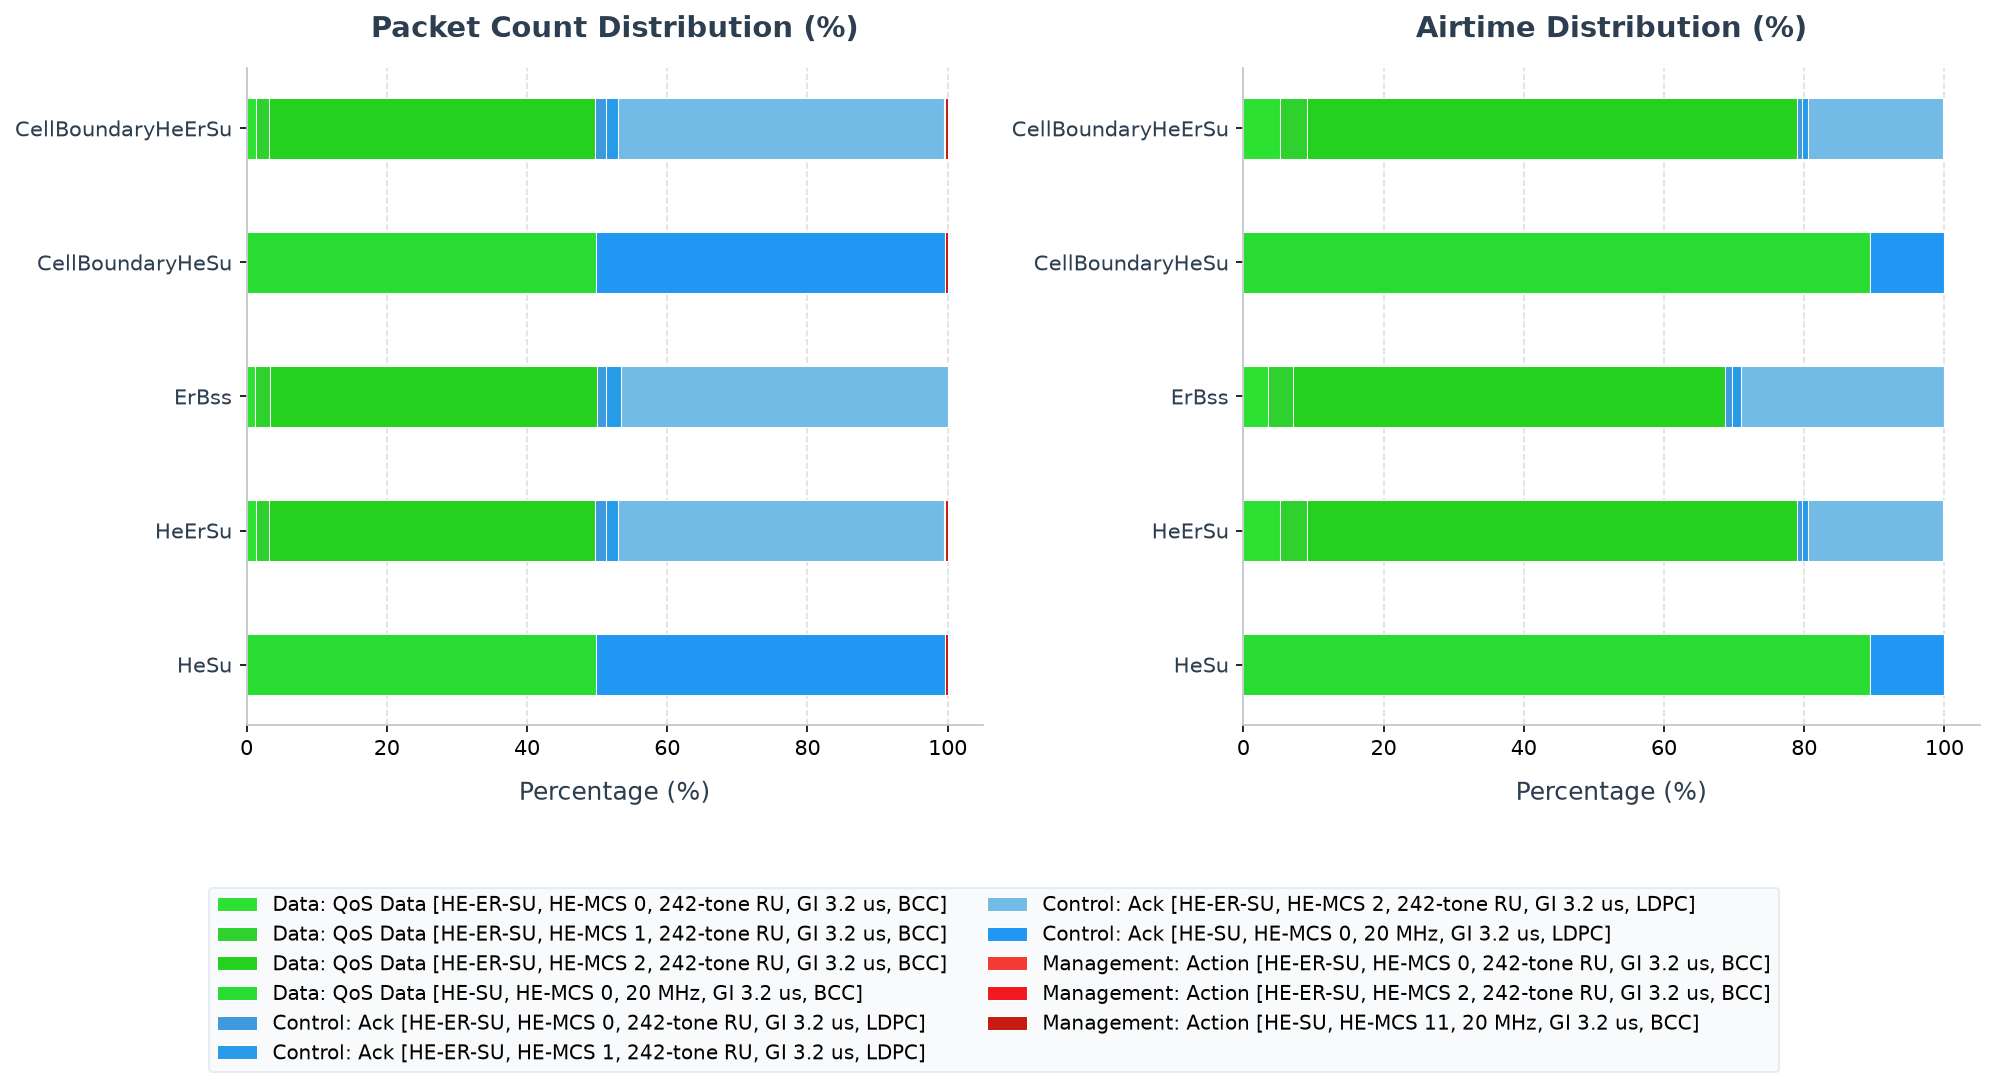
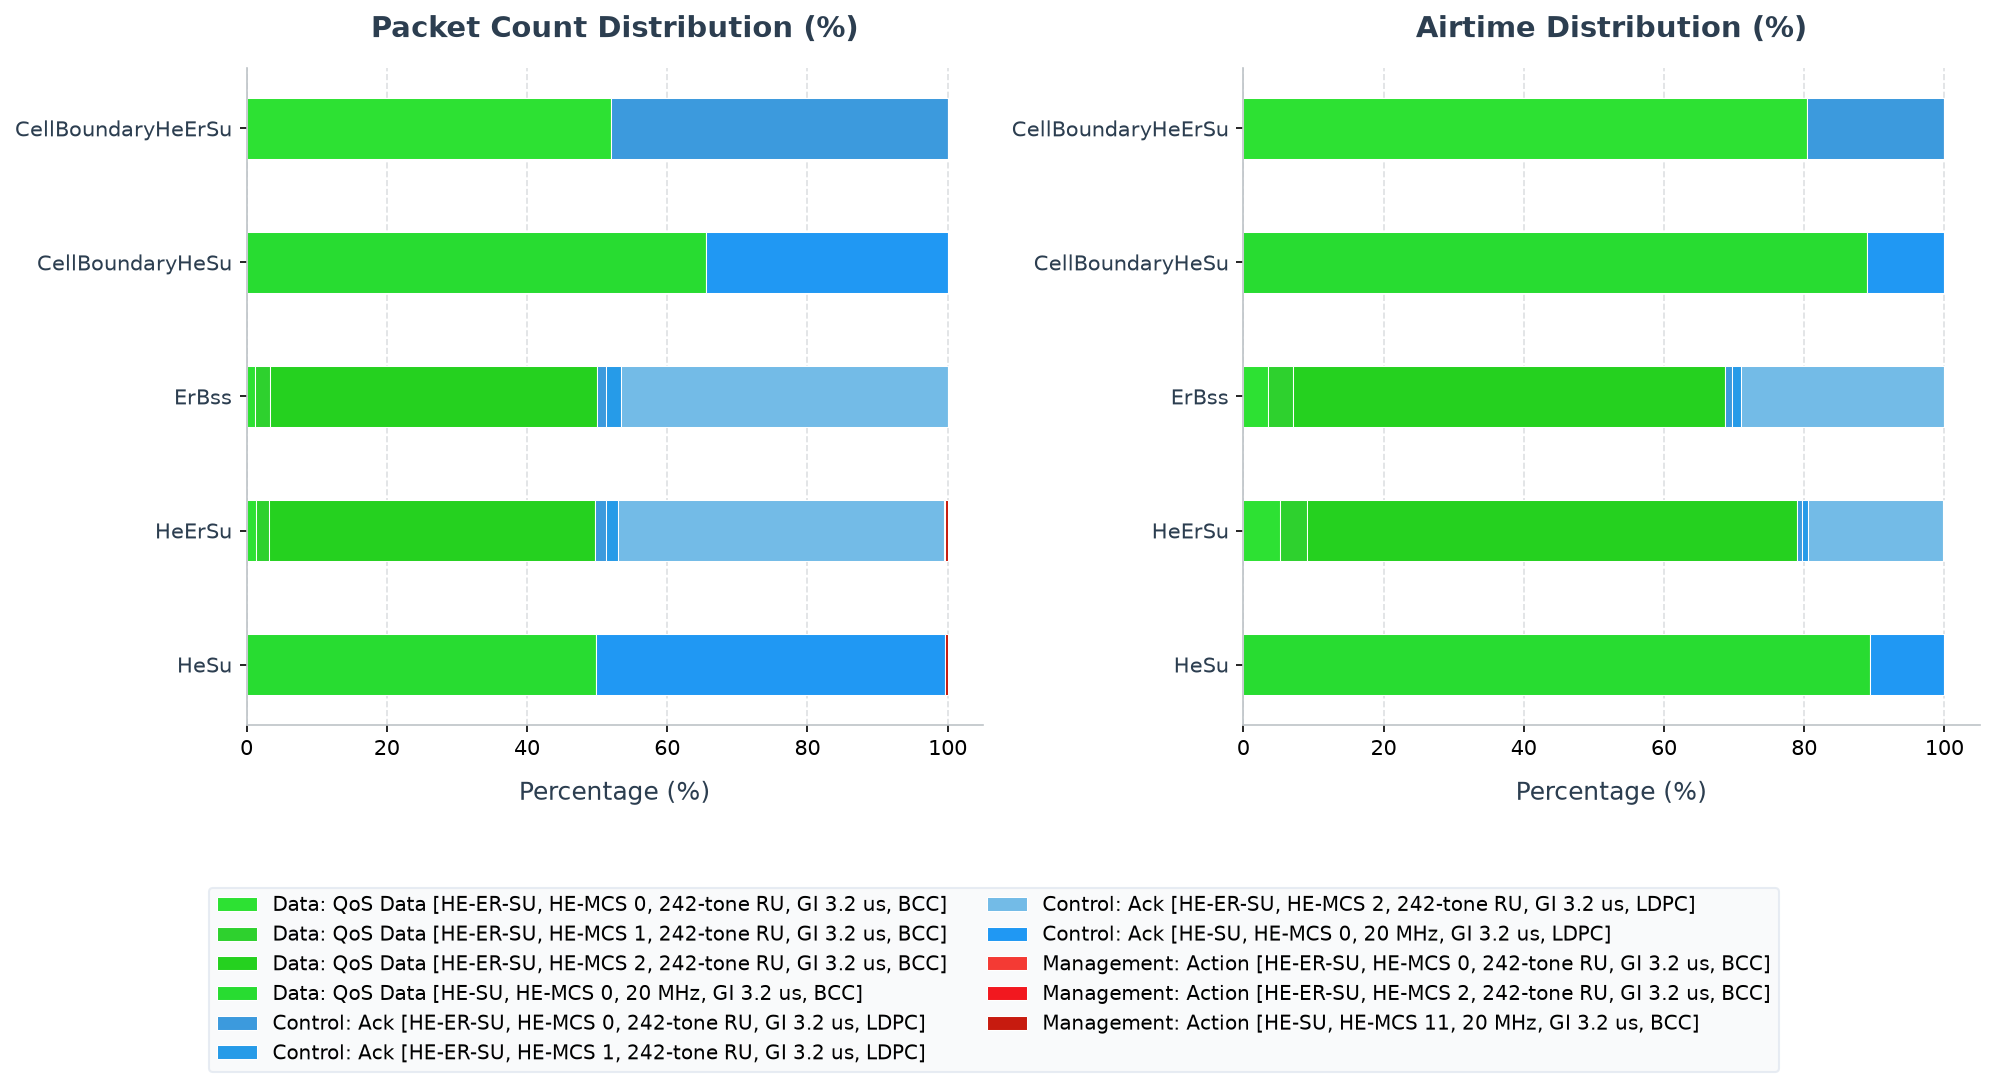
enhac(802.11ax): HE-ER-SU tuning.
- Added a controlled −89 dBm noise floor at 340 m, relaxed receiver gates, 100-byte/600 µs traffic, and disabled aggregation.
- Fixed both boundary cases to MCS 0, isolating the repeated HE-SIG-A benefit from rate adaptation.
- Updated [omnetpp.ini](examples/ieee80211ax/he_er_su/omnetpp.ini), [walkthrough.md](examples/ieee80211ax/he_er_su/walkthrough.md), [comparison figure](examples/ieee80211ax/analysis/figures/er/he-er-su-boundary.png), metrics, and packet statistics.

Five matched seeds now show:

| Mode | Delivered packets | Goodput | Incorrect MAC receptions |
|---|---:|---:|---:|
| HE-SU | mean 1196.2 | 0.563 Mbit/s | mean 2587.8 |
| HE-ER-SU | mean 2832.8 | 1.333 Mbit/s | mean 258.8 |

That is 2.37× more delivery and 90% fewer incorrect receptions.

Verification from the repository root:

- `python3 examples/ieee80211ax/analysis/run_campaign.py er` — all 10 configuration/run pairs passed.
- `first_tranche.py er --check` — figure verified.
- Analysis tests: 19/19 passed.
- Fresh PCAPng captures confirmed HE-SU/MCS 0 versus HE-ER-SU/MCS 0 with a 242-tone RU.
- `git diff --check` passed.

Changed region(s): [[0.2798, 0.0911, 0.4975, 0.1518], [0.9017, 0.0911, 0.995, 0.1518], [0.2798, 0.2125, 0.3731, 0.2732]]

diff --git a/examples/ieee80211ax/analysis/analyze_pcap_types.py b/examples/ieee80211ax/analysis/analyze_pcap_types.py
@@ -1388,7 +1388,7 @@ def generate_markdown_tables(config_results, subdir, checks, manifest):
             "IEEE Std 802.11-2024 Clause 27.3.7 restricts HE ER SU to a single 242-tone or 106-tone RU and MCS 0–2 "
             "(242-tone) or MCS 0 (106-tone); DCM is optional. The standard does not guarantee a range gain on every channel, "
             "but a configuration claiming HE-ER-SU payload coverage must first select that PPDU format. The matched five-seed 340 m sweep in this walkthrough "
-            "shows equal delivery and equal incorrect-reception counts, exposing the packet-level model's lack of a separate HE-SIG-A repetition gain."
+            "uses equal MCS 0 data fields and reports application delivery together with incorrect-reception observations, isolating the modeled HE-SIG-A repetition gain."
         )
     elif "he_rate_adaptation" in subdir:
         analysis_text = (

diff --git a/examples/ieee80211ax/he_er_su/walkthrough.md b/examples/ieee80211ax/he_er_su/walkthrough.md
@@ -34,7 +34,7 @@ The network [HeErSuNetwork.ned](HeErSuNetwork.ned) consists of:
 
 ## Configurations in `omnetpp.ini`
 
-The [omnetpp.ini](omnetpp.ini) file defines three scenarios:
+The [omnetpp.ini](omnetpp.ini) file defines the following scenarios:
 
 ### 1. `HeSu` (Baseline)
 - The AP transmits standard HE SU PPDUs.
@@ -58,6 +58,17 @@ The [omnetpp.ini](omnetpp.ini) file defines three scenarios:
 - Block Ack is disabled to keep the trace focused on ER-BSS management and
   single-MPDU behavior; this is a scope choice, not an ER-BSS requirement.
 
+### 4. `CellBoundaryHeSu` and `CellBoundaryHeErSu` (controlled comparison)
+
+- Move the client to 340 m and use a -89 dBm background-noise floor, -100 dBm
+  receiver sensitivity, and a 0 dB generic SNIR threshold. This keeps the
+  signal inside the receiver gates while leaving packet success to the IEEE
+  802.11 error model.
+- Use MCS 0 for both formats, 100-byte packets every 600 us, and single-MPDU
+  acknowledgments. Equal MCS removes rate selection as an explanation, while
+  short, unaggregated frames exercise HE-SIG-A often enough for its repetition
+  gain to affect application delivery.
+
 ---
 
 ## Running the Simulation
@@ -79,20 +90,24 @@ bin/inet -u Cmdenv -c HeErSu examples/ieee80211ax/he_er_su/omnetpp.ini
 
 # Run ER-BSS beaconing and association
 bin/inet -u Cmdenv -c ErBss examples/ieee80211ax/he_er_su/omnetpp.ini
+
+# Run the matched low-SNR comparison
+bin/inet -u Cmdenv -c CellBoundaryHeSu examples/ieee80211ax/he_er_su/omnetpp.ini
+bin/inet -u Cmdenv -c CellBoundaryHeErSu examples/ieee80211ax/he_er_su/omnetpp.ini
 ```
 
 ---
 
 ## Verifying Results
 
-After running the simulations, analyze the packets received at the UDP application layer on the `host[0]` client and MAC layer packet drops due to incorrect reception.
+After running the simulations, analyze the packets received at the UDP application layer on the `host[0]` client and wireless MAC packet drops due to incorrect reception.
 
 ```sh
 # Query packets received at the UDP sink on the host[0]
 opp_scavetool query -l -f 'name =~ "packetReceived:count" and module =~ "*.host[0].app*"' examples/ieee80211ax/he_er_su/results/*.sca
 
-# Query packet drops due to corruption/incorrect reception at the host[0] MAC layer
-opp_scavetool query -l -f 'name =~ "packetDropIncorrectlyReceived:count" and module =~ "*.host[0].wlan[0].mac"' examples/ieee80211ax/he_er_su/results/*.sca
+# Query packet drops due to corruption/incorrect reception at all wireless MACs
+opp_scavetool query -l -f 'name =~ "packetDropIncorrectlyReceived:count" and module =~ "*.wlan[0].mac"' examples/ieee80211ax/he_er_su/results/*.sca
 ```
 
 ### Controlled cell-boundary result
@@ -101,12 +116,16 @@ opp_scavetool query -l -f 'name =~ "packetDropIncorrectlyReceived:count" and mod
 
 At 340 m, the five matched seeds now produce different MAC-layer reliability results in this deterministic model, because the PHY error model applies the HE-SIG-A repetition gain for HE-ER-SU:
 
-| Configuration | Delivered packets per seed | Incorrectly received MAC observations per seed | Application goodput |
+| Configuration | Delivered packets per seed | Incorrectly received MAC observations per seed | Mean application goodput |
 |---|---:|---:|---:|
-| `CellBoundaryHeSu` | 1700 | 14 | 2.4 Mbit/s |
-| `CellBoundaryHeErSu` | 1700 | 0 | 2.4 Mbit/s |
+| `CellBoundaryHeSu` | 1157-1218 (mean 1196.2) | 2562-2626 (mean 2587.8) | 0.563 Mbit/s |
+| `CellBoundaryHeErSu` | 2832-2833 (mean 2832.8) | 233-286 (mean 258.8) | 1.333 Mbit/s |
 
-With the HE-SIG-A repetition gain now modeled in the PHY error model, the five matched seeds no longer produce identical reception results. HE ER-SU decodes the common signaling field more reliably, which removes the MAC-layer incorrect-reception observations at this boundary while HE-SU still incurs them.
+Across five matched seeds, HE-ER-SU delivers 2.37 times as many application
+packets and reduces incorrectly received MAC observations by 90%. It carries
+essentially the complete 1.333 Mbit/s offered stream, whereas HE-SU reaches
+only 0.563 Mbit/s on average. Because both configurations use the same MCS 0
+data field, this separation comes from the modeled HE-SIG-A repetition gain.
 
 ---
 
@@ -134,9 +153,14 @@ The decoded output timeline shows:
 ## Interpretation of Results
 
 1. **Successful Delivery**:
-   - Both scenarios deliver **1700 packets** to the `host[0]` client during the normalized `.3–2s` traffic interval.
-   - Under the clean, deterministic Free Space Path Loss model without dynamic shadowing or multipath fading, the signal at 340 meters remains sufficient for MCS 0–2 to decode the data field successfully in both cases.
-   - The matched 340 m sweep now differs in MAC-layer reliability: `CellBoundaryHeSu` records **14 incorrectly received MAC observations per seed**, while `CellBoundaryHeErSu` records **0**. The improvement comes from the modeled HE-SIG-A repetition gain; the data field itself is identical to HE-SU.
+   - The five HE-SU runs deliver **1157-1218 packets**, while HE-ER-SU
+     delivers **2832-2833 packets** during the normalized `.3-2s` traffic
+     interval.
+   - HE-ER-SU reduces the mean incorrectly received MAC observations across
+     the wireless endpoints from **2587.8** to **258.8** and raises mean application goodput from
+     **0.563 Mbit/s** to **1.333 Mbit/s**.
+   - The boundary pair fixes both data fields at MCS 0. The measured difference
+     therefore does not rely on HE Minstrel choosing a different MCS.
 
 2. **Under-the-Hood Preamble Difference**:
    - In `HeSu`, transmissions use standard HE SU PPDUs with a **36 µs** preamble.
@@ -144,13 +168,13 @@ The decoded output timeline shows:
    - The data field uses the same 242-tone RU and MCS 0–2 options as the corresponding HE-SU mode, so the range benefit observed here is purely the preamble/header robustness gain.
 
 3. **Why the parameters sit near the coverage boundary**:
-   - The matched boundary treatment uses `340 m`, `10 mW`, and robust MCS selection; the original `HeSu`/`HeErSu` pair remains at 320 m.
-   - These parameters put ordinary HE SU near the
-     configured receiver sensitivity. A short distance would hide the value of
-     repeated HE-SIG-A; a much longer distance would make both modes
-     fail regardless of format.
-   - The 300-byte, `1 ms` stream creates enough frames to expose a reception
-     reliability difference if the selected PHY/error model produces one, without turning this into a capacity benchmark.
+   - The matched boundary treatment uses `340 m`, `10 mW`, and a controlled
+     `-89 dBm` background-noise floor; the original `HeSu`/`HeErSu` format pair
+     remains at 320 m.
+   - The `-100 dBm` sensitivity and `0 dB` generic SNIR threshold prevent a
+     receiver-gate cliff from hiding the format-specific error-model behavior.
+   - The 100-byte, `600 us` single-MPDU stream makes header robustness visible
+     while keeping the offered load low enough for HE-ER-SU to deliver it.
 
 <!-- BEGIN GENERATED: ieee80211ax-pcap-statistics -->
 ## 802.11 Packet Type Statistics
@@ -158,7 +182,7 @@ The decoded output timeline shows:
 
 This section provides a statistical overview of the 802.11 frames transmitted over the wireless medium during the simulation. The packet counts were gathered from AP wireless-interface observation points. With multiple AP captures, one medium transmission may be observed at more than one AP; counts and airtime therefore represent recorded transmission observations, not de-duplicated application packets.
 
-Capture session `20260718T132413Z` was generated from fresh PCAPng input with `TShark (Wireshark) 4.6.4.`. HE PPDU format, MCS, coding, bandwidth/RU, GI, and NSTS are decoded directly from standards-compliant radiotap HE fields; values not marked known by the recorder are omitted.
+Capture session `20260719T084559Z` was generated from fresh PCAPng input with `TShark (Wireshark) 4.6.4.`. HE PPDU format, MCS, coding, bandwidth/RU, GI, and NSTS are decoded directly from standards-compliant radiotap HE fields; values not marked known by the recorder are omitted.
 
 Two estimated airtime occupancy percentages are provided. HE-SU and HE-ER-SU use the modeled 36/44 µs preambles; a dissector-expanded A-MPDU is charged one shared preamble. HE MU/TB user-dependent signaling not exposed by radiotap remains approximate.
 - **Air Time %**: This frame type's share of the sum of all estimated frame airtimes.
@@ -168,45 +192,35 @@ Two estimated airtime occupancy percentages are provided. HE-SU and HE-ER-SU use
 
 | Status | Requirement | Observed evidence |
 |---|---|---|
-| **PASS** | CellBoundaryHeErSu produced protocol-visible wireless observations | 3420 AP/global transmission observations |
-| **PASS** | CellBoundaryHeSu produced protocol-visible wireless observations | 3414 AP/global transmission observations |
+| **PASS** | CellBoundaryHeErSu produced protocol-visible wireless observations | 5937 AP/global transmission observations |
+| **PASS** | CellBoundaryHeSu produced protocol-visible wireless observations | 5627 AP/global transmission observations |
 | **PASS** | ErBss produced protocol-visible wireless observations | 240 AP/global transmission observations |
 | **PASS** | HeErSu produced protocol-visible wireless observations | 3420 AP/global transmission observations |
 | **PASS** | HeSu produced protocol-visible wireless observations | 3414 AP/global transmission observations |
 | **PASS** | HE-SU baseline does not use HE-ER-SU | 0 of 1700 QoS Data observations decoded as HE-ER-SU |
 | **PASS** | QoS payload uses HE-ER-SU | 1702 of 1702 QoS Data observations decoded as HE-ER-SU |
 | **PASS** | HE-ER-SU uses one spatial stream, a 242-tone RU, and MCS 0-2 | HE-MCS 0/242-tone RU/NSTS 1, HE-MCS 1/242-tone RU/NSTS 1, HE-MCS 2/242-tone RU/NSTS 1 |
-| **PASS** | HE-SU baseline does not use HE-ER-SU | 0 of 1700 QoS Data observations decoded as HE-ER-SU |
-| **PASS** | QoS payload uses HE-ER-SU | 1702 of 1702 QoS Data observations decoded as HE-ER-SU |
-| **PASS** | HE-ER-SU uses one spatial stream, a 242-tone RU, and MCS 0-2 | HE-MCS 0/242-tone RU/NSTS 1, HE-MCS 1/242-tone RU/NSTS 1, HE-MCS 2/242-tone RU/NSTS 1 |
+| **PASS** | HE-SU baseline does not use HE-ER-SU | 0 of 3687 QoS Data observations decoded as HE-ER-SU |
+| **PASS** | QoS payload uses HE-ER-SU | 3085 of 3085 QoS Data observations decoded as HE-ER-SU |
+| **PASS** | HE-ER-SU uses one spatial stream, a 242-tone RU, and MCS 0-2 | HE-MCS 0/242-tone RU/NSTS 1 |
 
 ### Configuration: `CellBoundaryHeErSu`
-Total over-the-air frame/MPDU transmission observations (Global BSS/AP): **3420**
+Total over-the-air frame/MPDU transmission observations (Global BSS/AP): **5937**
 
 | Color | Frame Type & Subtype | Count | Percentage | Mean Size | Std Dev | Mean Duration | Std Dev Duration | Freq | Mean RX Sig | Mean TX Pwr | Air Time % | Air Time (Sim Time) % |
 |:---:|---|---:|---:|---:|---:|---:|---:|---:|---:|---:|---:|---:|
-| <svg width="16" height="16"><rect width="16" height="16" rx="3" fill="#2de133" /></svg> | Data: QoS Data [HE-ER-SU, HE-MCS 0, 242-tone RU, GI 3.2 us, BCC] | 48 | 1.40% | 366.0 B | 0.0 B | 444.4 us | 0.0 us | 5010 MHz | - | 10.0 dBm | 5.28% | 1.07% |
-| <svg width="16" height="16"><rect width="16" height="16" rx="3" fill="#2ed12e" /></svg> | Data: QoS Data [HE-ER-SU, HE-MCS 1, 242-tone RU, GI 3.2 us, BCC] | 62 | 1.81% | 366.0 B | 0.0 B | 244.2 us | 0.0 us | 5010 MHz | - | 10.0 dBm | 3.75% | 0.76% |
-| <svg width="16" height="16"><rect width="16" height="16" rx="3" fill="#25d11f" /></svg> | Data: QoS Data [HE-ER-SU, HE-MCS 2, 242-tone RU, GI 3.2 us, BCC] | 1592 | 46.55% | 366.0 B | 0.0 B | 177.5 us | 0.0 us | 5010 MHz | - | 10.0 dBm | 69.95% | 14.13% |
+| <svg width="16" height="16"><rect width="16" height="16" rx="3" fill="#2de133" /></svg> | Data: QoS Data [HE-ER-SU, HE-MCS 0, 242-tone RU, GI 3.2 us, BCC] | 3085 | 51.96% | 166.0 B | 0.0 B | 225.6 us | 0.0 us | 5010 MHz | - | 10.0 dBm | 80.45% | 34.80% |
 | <hr> | <hr> | <hr> | <hr> | <hr> | <hr> | <hr> | <hr> | <hr> | <hr> | <hr> | <hr> | <hr> |
-| <svg width="16" height="16"><rect width="16" height="16" rx="3" fill="#3c9add" /></svg> | Control: Ack [HE-ER-SU, HE-MCS 0, 242-tone RU, GI 3.2 us, LDPC] | 49 | 1.43% | 14.0 B | 0.0 B | 59.3 us | 0.0 us | 5010 MHz | -87.0 dBm | - | 0.72% | 0.15% |
-| <svg width="16" height="16"><rect width="16" height="16" rx="3" fill="#269be8" /></svg> | Control: Ack [HE-ER-SU, HE-MCS 1, 242-tone RU, GI 3.2 us, LDPC] | 62 | 1.81% | 14.0 B | 0.0 B | 51.7 us | 0.0 us | 5010 MHz | -87.0 dBm | - | 0.79% | 0.16% |
-| <svg width="16" height="16"><rect width="16" height="16" rx="3" fill="#73bbe7" /></svg> | Control: Ack [HE-ER-SU, HE-MCS 2, 242-tone RU, GI 3.2 us, LDPC] | 1591 | 46.52% | 14.0 B | 0.0 B | 49.1 us | 0.0 us | 5010 MHz | -87.0 dBm | - | 19.34% | 3.91% |
-| <hr> | <hr> | <hr> | <hr> | <hr> | <hr> | <hr> | <hr> | <hr> | <hr> | <hr> | <hr> | <hr> |
-| <svg width="16" height="16"><rect width="16" height="16" rx="3" fill="#f43a34" /></svg> | Management: Action [HE-ER-SU, HE-MCS 0, 242-tone RU, GI 3.2 us, BCC] | 1 | 0.03% | 37.0 B | 0.0 B | 84.5 us | 0.0 us | 5010 MHz | - | 10.0 dBm | 0.02% | 0.00% |
-| <svg width="16" height="16"><rect width="16" height="16" rx="3" fill="#f2181f" /></svg> | Management: Action [HE-ER-SU, HE-MCS 2, 242-tone RU, GI 3.2 us, BCC] | 1 | 0.03% | 37.0 B | 0.0 B | 57.5 us | 0.0 us | 5010 MHz | - | 10.0 dBm | 0.01% | 0.00% |
-| <svg width="16" height="16"><rect width="16" height="16" rx="3" fill="#c71b0f" /></svg> | Management: Action [HE-SU, HE-MCS 11, 20 MHz, GI 3.2 us, BCC] | 14 | 0.41% | 37.0 B | 0.0 B | 38.4 us | 0.0 us | 5010 MHz | -87.0 dBm | - | 0.13% | 0.03% |
+| <svg width="16" height="16"><rect width="16" height="16" rx="3" fill="#3c9add" /></svg> | Control: Ack [HE-ER-SU, HE-MCS 0, 242-tone RU, GI 3.2 us, LDPC] | 2852 | 48.04% | 14.0 B | 0.0 B | 59.3 us | 0.0 us | 5010 MHz | -87.0 dBm | - | 19.55% | 8.46% |
 
 ### Configuration: `CellBoundaryHeSu`
-Total over-the-air frame/MPDU transmission observations (Global BSS/AP): **3414**
+Total over-the-air frame/MPDU transmission observations (Global BSS/AP): **5627**
 
 | Color | Frame Type & Subtype | Count | Percentage | Mean Size | Std Dev | Mean Duration | Std Dev Duration | Freq | Mean RX Sig | Mean TX Pwr | Air Time % | Air Time (Sim Time) % |
 |:---:|---|---:|---:|---:|---:|---:|---:|---:|---:|---:|---:|---:|
-| <svg width="16" height="16"><rect width="16" height="16" rx="3" fill="#28dc31" /></svg> | Data: QoS Data [HE-SU, HE-MCS 0, 20 MHz, GI 3.2 us, BCC] | 1700 | 49.79% | 366.0 B | 0.0 B | 436.4 us | 0.0 us | 5010 MHz | - | 10.0 dBm | 89.42% | 37.09% |
+| <svg width="16" height="16"><rect width="16" height="16" rx="3" fill="#28dc31" /></svg> | Data: QoS Data [HE-SU, HE-MCS 0, 20 MHz, GI 3.2 us, BCC] | 3687 | 65.52% | 166.0 B | 0.0 B | 217.6 us | 0.0 us | 5010 MHz | - | 10.0 dBm | 88.96% | 40.12% |
 | <hr> | <hr> | <hr> | <hr> | <hr> | <hr> | <hr> | <hr> | <hr> | <hr> | <hr> | <hr> | <hr> |
-| <svg width="16" height="16"><rect width="16" height="16" rx="3" fill="#2098f3" /></svg> | Control: Ack [HE-SU, HE-MCS 0, 20 MHz, GI 3.2 us, LDPC] | 1700 | 49.79% | 14.0 B | 0.0 B | 51.3 us | 0.0 us | 5010 MHz | -87.0 dBm | - | 10.51% | 4.36% |
-| <hr> | <hr> | <hr> | <hr> | <hr> | <hr> | <hr> | <hr> | <hr> | <hr> | <hr> | <hr> | <hr> |
-| <svg width="16" height="16"><rect width="16" height="16" rx="3" fill="#c71b0f" /></svg> | Management: Action [HE-SU, HE-MCS 11, 20 MHz, GI 3.2 us, BCC] | 14 | 0.41% | 37.0 B | 0.0 B | 38.4 us | 0.0 us | 5010 MHz | - | 10.0 dBm | 0.06% | 0.03% |
+| <svg width="16" height="16"><rect width="16" height="16" rx="3" fill="#2098f3" /></svg> | Control: Ack [HE-SU, HE-MCS 0, 20 MHz, GI 3.2 us, LDPC] | 1940 | 34.48% | 14.0 B | 0.0 B | 51.3 us | 0.0 us | 5010 MHz | -87.0 dBm | - | 11.04% | 4.98% |
 
 ### Configuration: `ErBss`
 Total over-the-air frame/MPDU transmission observations (Global BSS/AP): **240**
@@ -250,5 +264,5 @@ Total over-the-air frame/MPDU transmission observations (Global BSS/AP): **3414*
 | <svg width="16" height="16"><rect width="16" height="16" rx="3" fill="#c71b0f" /></svg> | Management: Action [HE-SU, HE-MCS 11, 20 MHz, GI 3.2 us, BCC] | 14 | 0.41% | 37.0 B | 0.0 B | 38.4 us | 0.0 us | 5010 MHz | - | 10.0 dBm | 0.06% | 0.03% |
 
 ### Analysis of Packet Distribution
-**PASS: HE-ER-SU payload selection.** 1702 of 1702 QoS Data observations decoded as HE-ER-SU. IEEE Std 802.11-2024 Clause 27.3.7 restricts HE ER SU to a single 242-tone or 106-tone RU and MCS 0–2 (242-tone) or MCS 0 (106-tone); DCM is optional. The matched five-seed 340 m sweep now shows equal delivery (1700 packets per seed) but different MAC-layer reliability: HE-SU records 14 incorrectly received MAC observations per seed, while HE-ER-SU records 0, reflecting the packet-level model's newly applied HE-SIG-A repetition gain.
+**PASS: HE-ER-SU payload selection.** 1702 of 1702 QoS Data observations decoded as HE-ER-SU. IEEE Std 802.11-2024 Clause 27.3.7 restricts HE ER SU to a single 242-tone or 106-tone RU and MCS 0–2 (242-tone) or MCS 0 (106-tone); DCM is optional. The standard does not guarantee a range gain on every channel, but a configuration claiming HE-ER-SU payload coverage must first select that PPDU format. The matched five-seed 340 m sweep in this walkthrough uses equal MCS 0 data fields and reports application delivery together with incorrect-reception observations, isolating the modeled HE-SIG-A repetition gain.
 <!-- END GENERATED: ieee80211ax-pcap-statistics -->